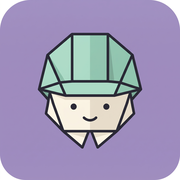
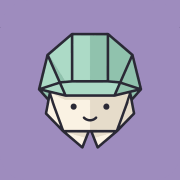
V5

diff --git a/src/data/site.ts b/src/data/site.ts
@@ -9,7 +9,7 @@ export const site = {
   substackFeed: 'https://thepaperworkengineer.substack.com/feed',
   substackSubscribe: 'https://thepaperworkengineer.substack.com/subscribe',
   instagram: 'https://www.instagram.com/the.paperwork.engineer/',
-  linkedin: 'https://www.linkedin.com/in/faizanjavedsheikh/',
+  linkedin: 'https://www.linkedin.com/in/faizanjavedsheikh',
   /** Public contact address, shown under "Let's talk" and on the privacy page. */
   email: 'faizan@thepaperworkengineer.com',
   /** Last real edit to each page's own text, for the sitemap. Update when you change the copy. */

diff --git a/src/styles/global.scss b/src/styles/global.scss
@@ -110,7 +110,7 @@ section[id] { scroll-margin-top: $spacing-09; }
   display: flex; align-items: center; gap: $spacing-04; min-height: $spacing-09; padding-right: $spacing-05;
   color: var(--cds-text-primary); text-decoration: none;
   &:hover { color: var(--cds-text-primary); }
-  img { width: $spacing-07; height: $spacing-07; border-radius: 0.4375rem; }
+  img { width: $spacing-07; height: $spacing-07; } // the logo file has its own rounded corners
 }
 .tpe-word { font-size: 1rem; font-weight: 600; white-space: nowrap; }
 .tpe-hlinks { display: none; align-items: stretch; }
